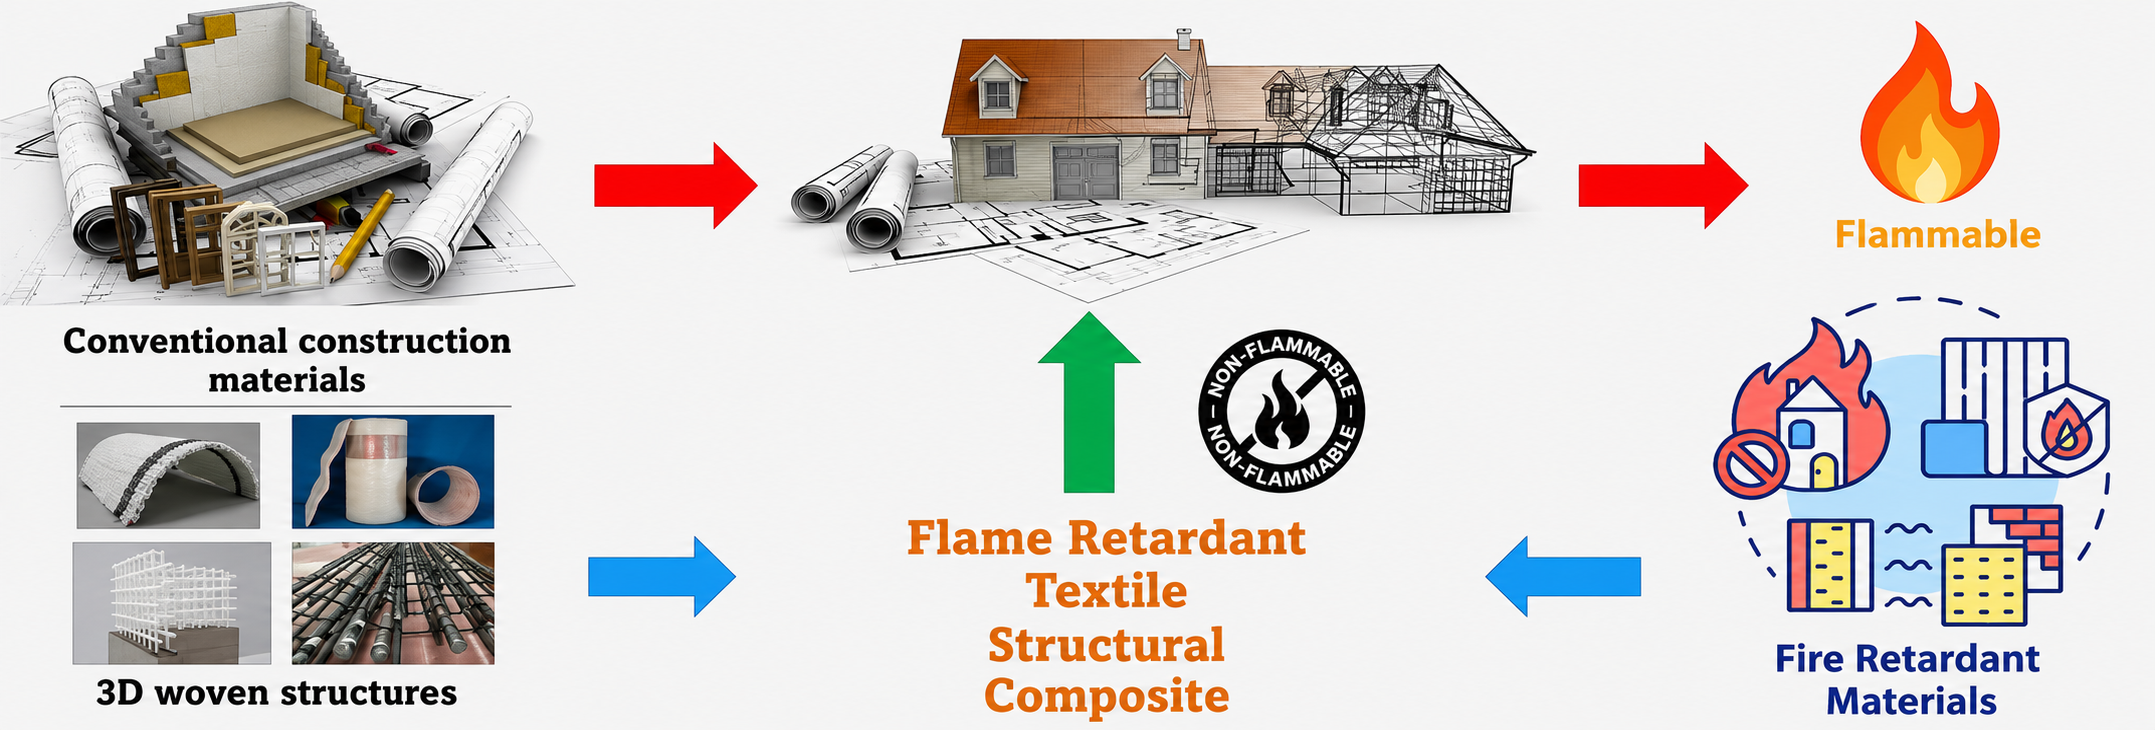
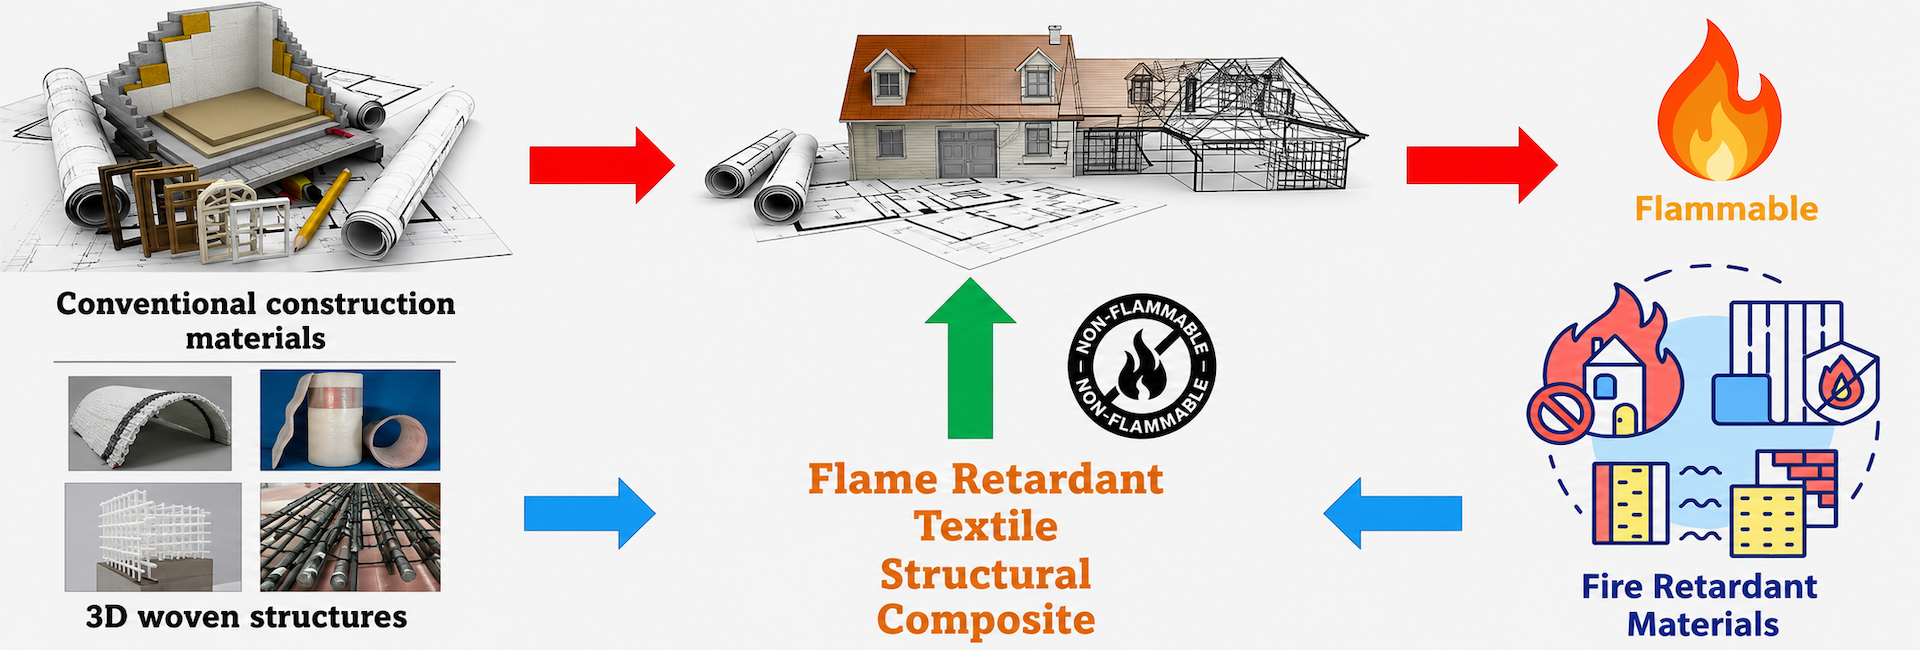
Updated Carousel

diff --git a/patterns/hero-carousel.php b/patterns/hero-carousel.php
@@ -14,15 +14,13 @@
 
     <!-- wp:image {"sizeSlug":"tf-hero-desktop","linkDestination":"none","className":"tf-carousel__slide"} -->
     <figure class="wp-block-image size-tf-hero-desktop tf-carousel__slide">
-      <img src="<?php echo esc_url( get_theme_file_uri( 'assets/images/hero-01.png' ) ); ?>"
-           alt="" fetchpriority="high" decoding="async" />
+      <img src="<?php echo esc_url( get_theme_file_uri( 'assets/images/hero-01.jpg' ) ); ?>" alt="" fetchpriority="high" decoding="async" />
     </figure>
     <!-- /wp:image -->
 
     <!-- wp:image {"sizeSlug":"tf-hero-desktop","linkDestination":"none","className":"tf-carousel__slide"} -->
     <figure class="wp-block-image size-tf-hero-desktop tf-carousel__slide">
-      <img src="<?php echo esc_url( get_theme_file_uri( 'assets/images/hero-02.png' ) ); ?>"
-           alt="" loading="lazy" decoding="async" />
+      <img src="<?php echo esc_url( get_theme_file_uri( 'assets/images/hero-02.jpg' ) ); ?>" alt="" loading="lazy" decoding="async" />
     </figure>
     <!-- /wp:image -->
 
